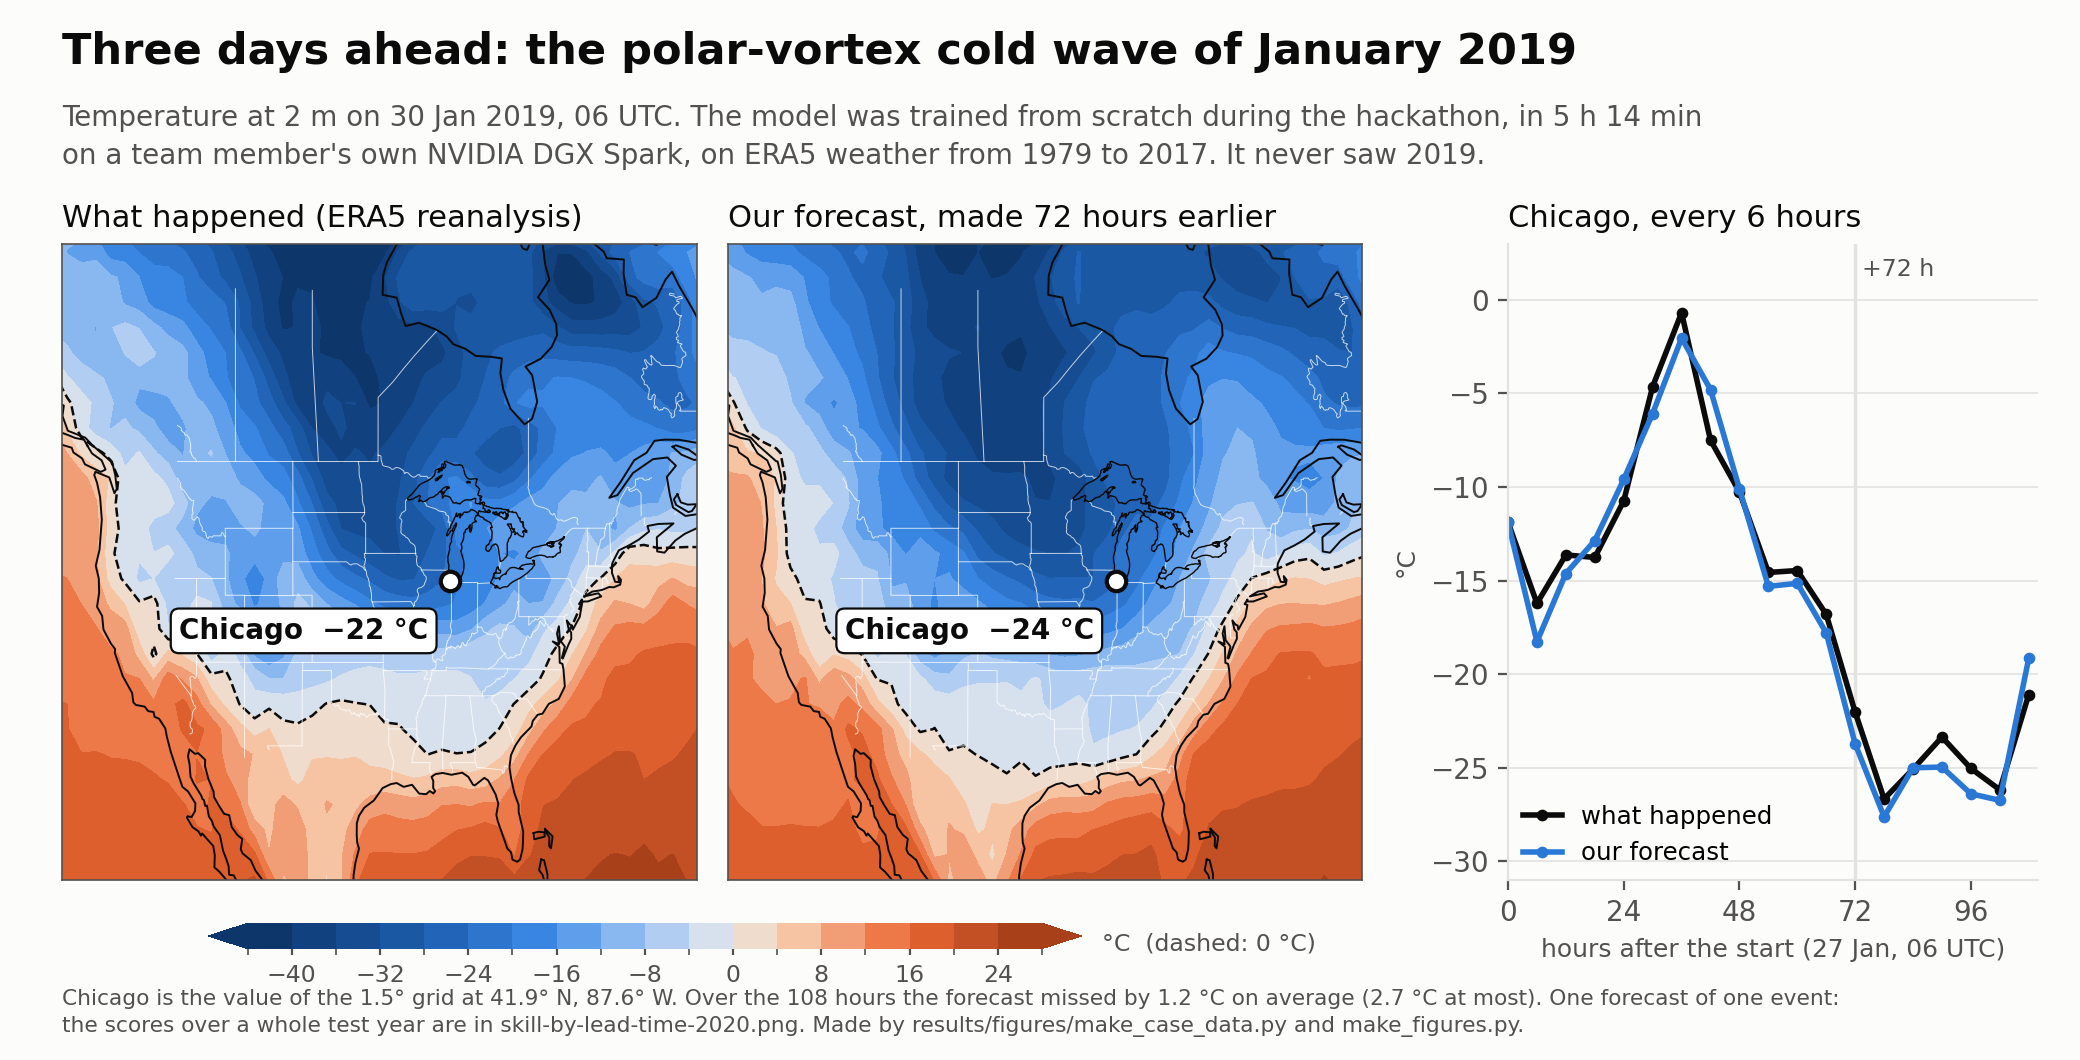
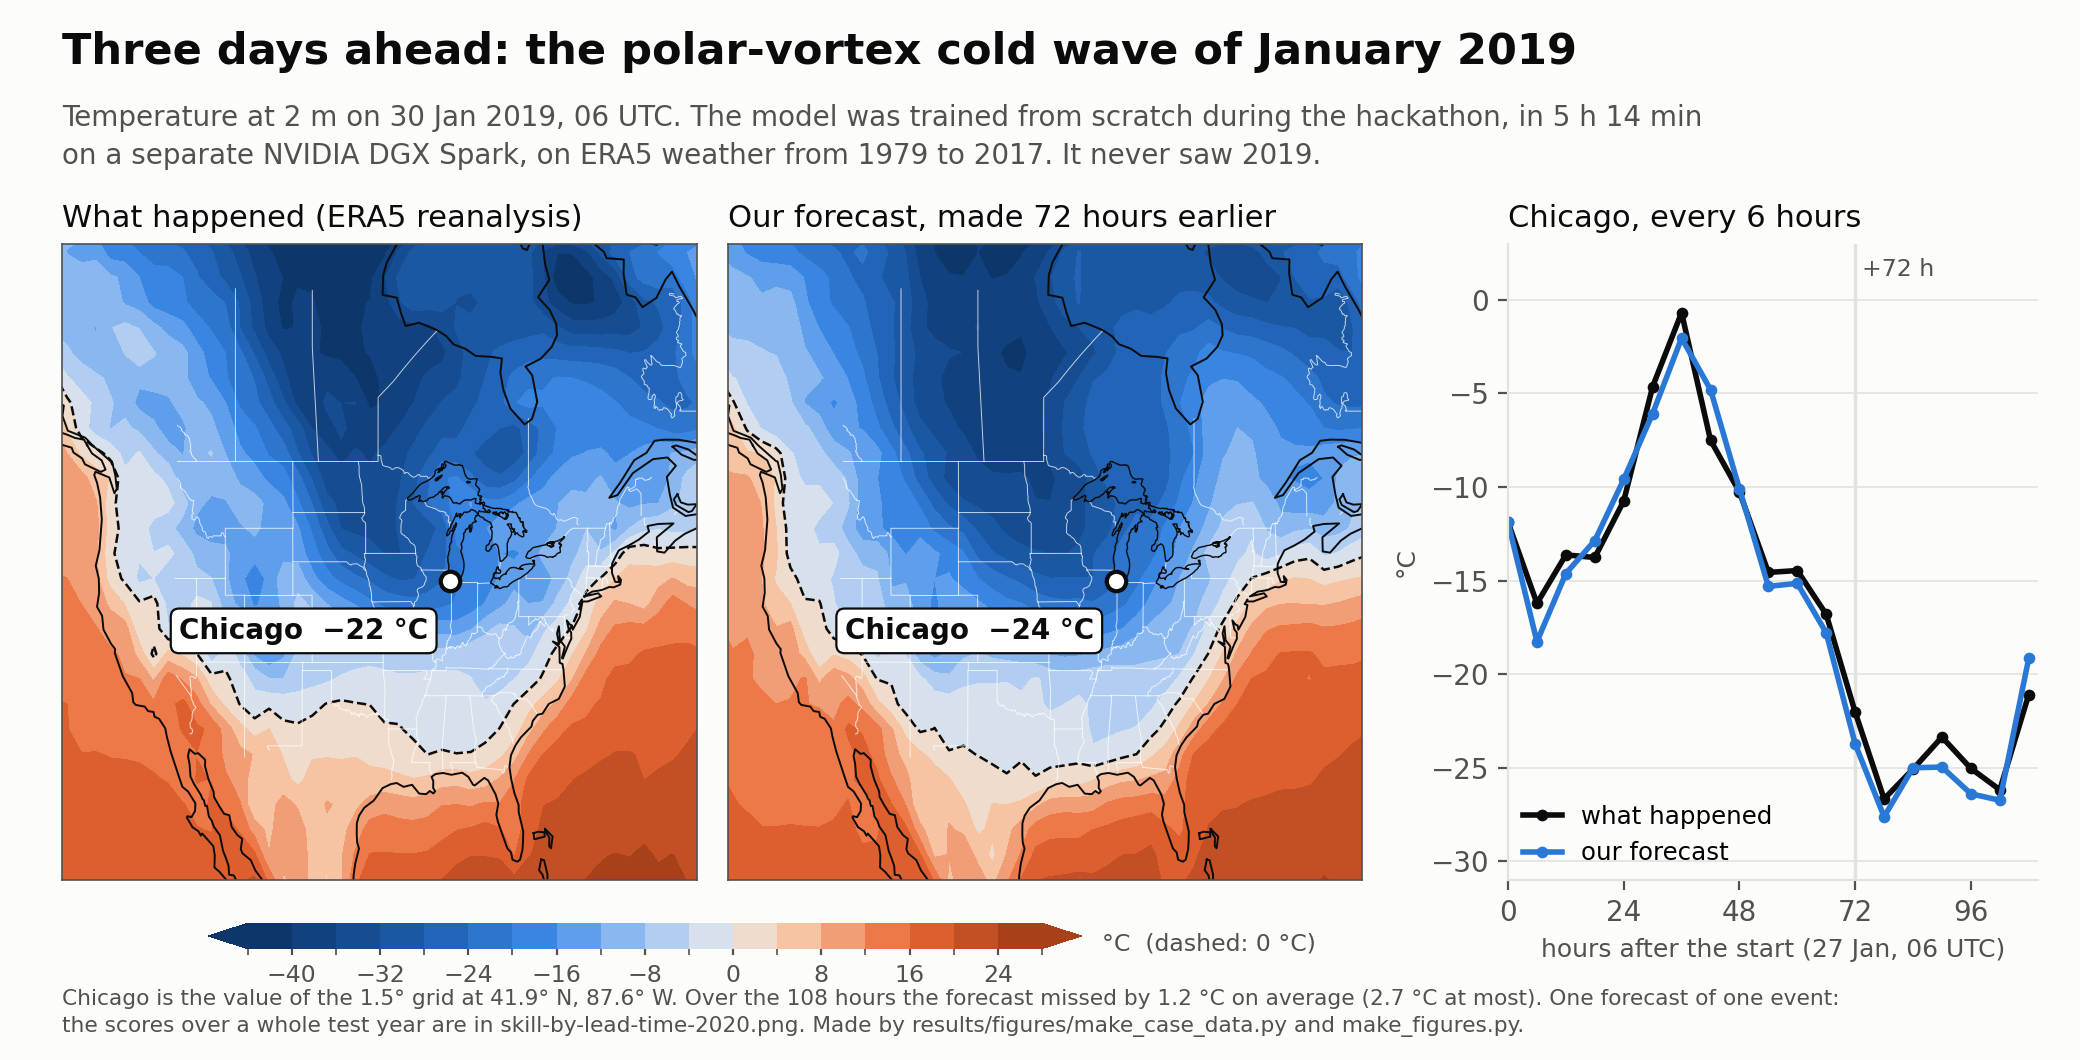
Wording: 'a separate DGX Spark' where the pages said whose machine it is
The pages, two figures and two code comments no longer say whose DGX Spark the base model was
trained and the night checks were run on. They still say that it is a separate machine and not
one of the event's two boxes. Text, two redrawn figures and two comments; no code changes.

Changed region(s): [[0.0625, 0.1245, 0.7188, 0.1557]]

diff --git a/results/figures/make_figures.py b/results/figures/make_figures.py
@@ -67,7 +67,7 @@ def cold_wave(compact=False):
     if not compact:
       fig.text(0.03, 0.94, "Three days ahead: the polar-vortex cold wave of January 2019", fontsize=15.5, fontweight="bold", color=INK)
       fig.text(0.03, 0.845, "Temperature at 2 m on 30 Jan 2019, 06 UTC. The model was trained from scratch during the hackathon, in 5 h 14 min\n"
-               "on a team member's own NVIDIA DGX Spark, on ERA5 weather from 1979 to 2017. It never saw 2019.", fontsize=10, color=INK2, linespacing=1.45)
+               "on a separate NVIDIA DGX Spark, on ERA5 weather from 1979 to 2017. It never saw 2019.", fontsize=10, color=INK2, linespacing=1.45)
     axes = [fig.add_axes([0.03, y0, 0.305, h]), fig.add_axes([0.35, y0, 0.305, h])]
     for ax, field, title in ((axes[0], truth, "30 Jan 2019, as it happened (ERA5)" if compact else "What happened (ERA5 reanalysis)"), (axes[1], fcst, "Our forecast, made 72 hours earlier")):
         sub = field[:, order][np.ix_(ii, jj)]
@@ -125,7 +125,7 @@ def skill():
     fig.text(0.03, 0.93, "Forecast error by lead time, on a year the model never saw", fontsize=15.5, fontweight="bold", color=INK)
     fig.text(0.03, 0.765, f"2020: {y['n_starts']} forecasts, started at 00 and 12 UTC every second day, scored against ERA5 over the whole globe\n"
              "(root-mean-square error, weighted by area). Lower is better. The model was trained and scored on one GB10,\n"
-             "a team member's own NVIDIA DGX Spark. One training run.", fontsize=10, color=INK2, linespacing=1.45)
+             "a separate NVIDIA DGX Spark. One training run.", fontsize=10, color=INK2, linespacing=1.45)
     names = {"z500": ("Pressure pattern (500 hPa)", "m²/s²"), "t850": ("Temperature aloft (850 hPa)", "K"), "t2m": ("Temperature at 2 m", "K")}
     for ax, v in zip(axes, ("z500", "t850", "t2m")):
         r = y["rmse"]

diff --git a/weather/make_bundle.py b/weather/make_bundle.py
@@ -33,7 +33,7 @@ README = """# The forecast server's bundle
 Made by `weather/make_bundle.py` on {made}.
 
 - `weights/afno_event.pt`: NVIDIA PhysicsNeMo's AFNO (19,128,832 parameters), trained from scratch during the
-  hackathon, overnight on Nov 13-14, 2026, on a team member's own NVIDIA DGX Spark (one GB10; not one of the
+  hackathon, overnight on Nov 13-14, 2026, on a separate NVIDIA DGX Spark (one GB10; not one of the
   event's boxes), with `weather/train.py`
   (18,828 one-step steps, then 1,564 four-step rollout steps). Training data: ERA5 reanalysis, 1979-2017, at
   1.5 degrees, 20 channels, every 6 hours.

diff --git a/README.md b/README.md
@@ -46,7 +46,7 @@ cold at 850 hPa (about 1.5 km up), this one 97.8%. "Chicago" is a value of the m
 | One 20-member, 5-day forecast split evenly across both boxes | **2.0 to 2.2 s** against 4.2 s on one box | event boxes |
 | One 48-hour forecast through the router | about **80 ms** | event boxes |
 | The LLM (NVIDIA Nemotron 3.5 Lightning, 18.7 GB on the GPU) beside the weather model on one GPU | 55 to 56 tokens a second; a tool call in 2.2 to 2.3 s (no fine-tune running) | event boxes |
-| A global weather model trained from scratch (NVIDIA PhysicsNeMo AFNO, 19.1M parameters) | **5 h 14 min** on one GB10, from the start to the scored model | a team member's own DGX Spark |
+| A global weather model trained from scratch (NVIDIA PhysicsNeMo AFNO, 19.1M parameters) | **5 h 14 min** on one GB10, from the start to the scored model | a separate DGX Spark |
 | Its 3-day forecast error on 362 forecasts of 2020, a year it never saw | **302** against 956 for "same as now" and 825 for the long-term average (the 500 hPa pressure pattern, the standard score for global weather models; lower is better) | same |
 
 "Event boxes" are the event's two NVIDIA GB10 machines: Lenovo ThinkStation PGX (they report maker
@@ -154,7 +154,7 @@ flowchart TB
 ![The Control Room: number tiles, one card per box with a "real model" badge, the model card, live traffic coloured by box, and the assistant with a forecast card for Chicago](docs/img/control-room.png)
 
 *The Control Room with the real weather model and Nemotron, under light demo traffic (click to enlarge).
-This picture is from a test stack on one GB10, a team member's own DGX Spark, taken on Nov 15: there both
+This picture is from a test stack on one GB10, a separate DGX Spark, taken on Nov 15: there both
 "boxes" share one GPU, which is why both cards say "GPU busy". On the event cluster each box has its own
 GPU. "Two DGX Sparks" in the header is the page's fixed text; `DGX Spark` is the family name the event's
 Lenovo machines report.*
@@ -230,7 +230,7 @@ Three things we learned on Fuzzball 4.3.1 and wrote into that file (more in
 
 | Sponsor | What we used | What it did, with a number | Where to look |
 |---|---|---|---|
-| **NVIDIA** | GB10, one per box | One GPU holds the weather model, an LLM that takes 18.7 GB of GPU memory, and a fine-tune at once. One 48-hour forecast: about 80 ms. The model was trained from scratch in 5 h 14 min on one GB10 (a team member's own DGX Spark) | [results](results/event-boxes-2026-11-14.md), [scores](results/figures/data/scores_overnight.json) |
+| **NVIDIA** | GB10, one per box | One GPU holds the weather model, an LLM that takes 18.7 GB of GPU memory, and a fine-tune at once. One 48-hour forecast: about 80 ms. The model was trained from scratch in 5 h 14 min on one GB10 (a separate DGX Spark) | [results](results/event-boxes-2026-11-14.md), [scores](results/figures/data/scores_overnight.json) |
 | | PhysicsNeMo 2.2.2 (AFNO) in the NGC PyTorch container `nvcr.io/nvidia/pytorch:26.02-py3` | The weather model's architecture (19.1M parameters; the weights are ours) and the runtime of every GPU service, with 16-bit arithmetic on the GPU (bf16) for serving and fine-tuning | [weather/wx_common.py](weather/wx_common.py), [weather/train.py](weather/train.py) |
 | | Nemotron 3.5 Lightning 30B-A3B (4-bit) on llama.cpp's CUDA build for arm64 | The Control Room's assistant, with tool calls. One LLM server runs on each box, with all layers on the GPU, and the chat can reach either one: 55 to 56 tokens a second, a tool call in 2.2 to 2.3 s | [ui/agent.py](ui/agent.py), [fuzzball/fetch_assets.sh](fuzzball/fetch_assets.sh) |
 | **CIQ** | Fuzzball 4.3.1 workflow: jobs and services with `depends-on`, one GPU per box service, a persistent volume, an endpoint, a readiness probe, time limits; Rocky Linux 9 for the hold job and three of the six one-time jobs | Starts, orders and holds the whole system. The benchmarks run inside it with `fuzzball workflow exec`. A queued copy of the stack took both GPUs 23 s after the first one ended | [fuzzball/](fuzzball/README.md) |
@@ -243,7 +243,7 @@ Three things we learned on Fuzzball 4.3.1 and wrote into that file (more in
 **What it is.** AFNO, a neural-network design for global grids from NVIDIA's PhysicsNeMo library, with
 19,128,832 parameters and our own weights: a global grid at 1.5°, 20 variables, 6-hour steps, up to 5 days
 ahead. We trained it from scratch on ERA5 (the European centre's record of past weather) from 1979 to 2017
-with [weather/train.py](weather/train.py), overnight on Nov 13–14, on one GB10 (a team member's own DGX
+with [weather/train.py](weather/train.py), overnight on Nov 13–14, on one GB10 (a separate DGX
 Spark). It forecasts temperature, wind, pressure and geopotential. It has no rain or cloud output. The weights (77 MB) and their
 scores are a [public release](https://github.com/CoryGardner/wxrouter/releases/tag/model-v1).
 
@@ -312,7 +312,7 @@ of three we tried, chosen on the validation period; each trial also printed its 
 alone on the DGX Spark that morning gave the same 1-day gains (−11.1%, −18.4%, −16.9%). For the question
 "will the 2 m temperature be 5 °C or more away from now, one day ahead?", F1 rose from 57.0% to 65.0%;
 for "frost or not" the tuned model was no better (F1 96.3% to 96.2% at 1 day, 94.9% to 94.4% at 3 days).
-These yes/no scores were computed on the team member's DGX Spark from the weights tuned on the event box
+These yes/no scores were computed on the separate DGX Spark from the weights tuned on the event box
 ([results/event-scores-2026-11-14](results/event-scores-2026-11-14/README.md)).
 The tuned model was live for the swap test; the stack then went back to the base model. Full report:
 [results/event-boxes-2026-11-14/finetune_report.md](results/event-boxes-2026-11-14/finetune_report.md).
@@ -367,14 +367,14 @@ killed server processes. Every event-box number is from one run.
   The public components under "Credits" were brought as they are.
 - **Built at the event.** The code in this repository (first commit authored Nov 13, 11:33 PM); the weather
   model's code was written after kickoff, from that recipe. The model that the boxes serve was trained
-  from scratch overnight on Nov 13–14 with `weather/train.py`, in 5 h 14 min, on that team member's own
+  from scratch overnight on Nov 13–14 with `weather/train.py`, in 5 h 14 min, on a separate
   DGX Spark (one GB10, not one of the event's boxes).
 - **Run on the event boxes.** Serving, routing, the fine-tune on NOAA analyses, the model swap and every
   measurement in [results/event-boxes-2026-11-14.md](results/event-boxes-2026-11-14.md). The from-scratch
   training was not run there.
 - **Checked on one GB10 first, then on the event boxes.** The assistant's direct path to the weather
   model, the demo traffic's limit, and the last fixes to the page were tested with the real model and the
-  real LLM on the team member's DGX Spark on the night of Nov 14
+  real LLM on the separate DGX Spark on the night of Nov 14
   ([results/chat-follow-ups-2026-11-14](results/chat-follow-ups-2026-11-14/README.md),
   [results/one-gb10-2026-11-14-night](results/one-gb10-2026-11-14-night/README.md)), with their known
   limits listed there. On Sunday morning, Nov 15, the same code started on the event boxes and passed a
@@ -397,7 +397,7 @@ router.
 | [deploy/](deploy/README.md) | `fb.py`, the launcher around the Fuzzball CLI; the generated workflow files of the inference engine | `fb.py` starts the stack that ran on the event boxes; the generated workflows ran on the event machines |
 | [router.py](router.py) | The router: one address, five rules, failover | deployed |
 | [serve/](serve/) | The forecast server for one box and the supervisor that shares the box's GPU | deployed |
-| [weather/](weather/) | The weather model's code: trainer, scorer, fine-tune, NOAA download | the forecast core, the fine-tune and the NOAA download are deployed; the trainer and the scorer ran on a team member's GB10 |
+| [weather/](weather/) | The weather model's code: trainer, scorer, fine-tune, NOAA download | the forecast core, the fine-tune and the NOAA download are deployed; the trainer and the scorer ran on a separate DGX Spark |
 | [ui/](ui/README.md) | The Control Room: the page, its assistant, the events feed, the demo traffic | deployed |
 | [router/](router/) | The second router: LLM chat to either box, one forecast split across both | deployed |
 | [whatif/](whatif/), [data/](data/) | WhatIf: the telemetry recorder and the diagnosis agents; `data/splits.json` is its list of recorded test cases | deployed with the page |

diff --git a/results/event-boxes-2026-11-14.md b/results/event-boxes-2026-11-14.md
@@ -32,7 +32,7 @@ Requests sent one at a time from inside box-a's service (`urllib`, same point, 6
 | through the router | 84 ms / 66 ms | 4.18 s / 3.80 s |
 
 Medians of 8 and of 3 requests. "GPU" is the server's own `timing.compute_ms`. The servers report 9.4 and
-9.7 ms per member-step. On a team member's own GB10 the same server measured 62 ms, 3.9 s and 9.6 ms on
+9.7 ms per member-step. On a separate GB10 the same server measured 62 ms, 3.9 s and 9.6 ms on
 Nov 14 in the morning: the event boxes match it.
 
 ## 3. Killing a forecast server under traffic (11:52-11:53)
@@ -137,7 +137,7 @@ each routing rule while the job trains. The LLM (18.7 GB) stayed loaded on both 
   the requests to the other box; its window includes the switch itself.
 - No request failed in any phase.
 - The fine-tune: 300 steps in 690 s of training, 738 s in all (12 min 18 s), with exit code 0. On one GB10
-  by itself (a team member's own DGX Spark, that morning at 7:18 AM), the same job took 530 s of training and
+  by itself (a separate DGX Spark, that morning at 7:18 AM), the same job took 530 s of training and
   564 s in all. So beside serving, and with the LLM on the same GPU, it took about 30% longer.
 - The script also counts training steps per phase (0.24 steps a second under static, 0.38 to 0.51 under the
   other rules, 0.44 with no traffic). These are rough: a 45-second window holds about 20 steps, and the
@@ -301,7 +301,7 @@ requests were waiting: 9.2 to 9.6 ms before the fine-tune, 19 to 20 ms beside it
 from 82 s to 127 s, and 9 to 10 ms after that. The fine-tune's process had ended at 93.6 s. With the same
 events and half of the traffic (the other four rules) no such spell is seen on box A.
 
-**The replay on one GB10** (a team member's own DGX Spark, Nov 14 at 10:38 PM; the stack of
+**The replay on one GB10** (a separate DGX Spark, Nov 14 at 10:38 PM; the stack of
 `results/one-gb10-2026-11-14-night/`, both forecast servers and the LLM on its one GPU): the same script,
 trace and fine-tune under static, without the kill. p50 259 ms, p95 2,301 ms, slowest 3,095 ms, 0 failed. One
 model step took 8 ms alone and 18 ms beside the fine-tune, and was back at 8 ms in the slice after the stop;

diff --git a/docs/DETAILS.md b/docs/DETAILS.md
@@ -308,7 +308,7 @@ What a caller should know about the real server:
   a fine-tune ran on the same GPU. Start `router.py` with a `--timeout` above its default of 5 s for those.
 - `/stats` reports `mode: training` when something else is using the box's GPU.
 
-Measured on one GB10 (a team member's own DGX Spark, Nov 13-14, 2026). The same server and the same fine-tune
+Measured on one GB10 (a separate DGX Spark, Nov 13-14, 2026). The same server and the same fine-tune
 on the two event boxes: [results/event-boxes-2026-11-14.md](../results/event-boxes-2026-11-14.md).
 
 | what | result |
@@ -341,11 +341,11 @@ python -m unittest tests.test_forecast_core tests.test_score tests.test_gfs_live
   in. The public components under "Credits" were brought as they are.
 - **Built at the event.** The code in this repository (first commit authored Nov 13, 11:33 PM); the weather model's
   code was written after kickoff, from that recipe. The model that the boxes serve was trained from scratch
-  overnight on Nov 13-14 with `weather/train.py`, in 5 h 14 min, on that team member's own DGX Spark (one
+  overnight on Nov 13-14 with `weather/train.py`, in 5 h 14 min, on a separate DGX Spark (one
   GB10, not one of the event's boxes).
 - **Run on the event boxes.** Serving, routing, the fine-tune on NOAA analyses, the model swap and every
   measurement in [results/event-boxes-2026-11-14.md](../results/event-boxes-2026-11-14.md). The from-scratch
-  training was not run there. Results from the team member's own GB10 are marked as such wherever they appear.
+  training was not run there. Results from the separate GB10 are marked as such wherever they appear.
 
 ## Credits
 

diff --git a/results/chat-follow-ups-2026-11-14/README.md b/results/chat-follow-ups-2026-11-14/README.md
@@ -37,7 +37,7 @@ checked. The limits that were seen are listed under "Known limits" below.
 | one GB10, 9:45 to 10:25 PM | the fix | 9 of 9, five runs | 8 of 8, five runs |
 | one GB10, 11:50 PM to 1:15 AM | the fix, through the three reads below | 9 of 9 in seven runs, 8 of 9 in one | 8 of 8, eight runs |
 
-- "One GB10" is one NVIDIA GB10 (a team member's own DGX Spark) with the real weather model, the same
+- "One GB10" is one NVIDIA GB10 (a separate DGX Spark) with the real weather model, the same
   starting analysis and the same LLM (Nemotron on llama.cpp) as the event boxes; the stack was started as
   `fuzzball/30-real-stack.fz` starts it. The event boxes were out of reach that evening.
 - With `main`, every follow-up answer held numbers that the model had not given. Example from the event

diff --git a/results/README.md b/results/README.md
@@ -6,7 +6,7 @@ Everything here was measured on Nov 14, 2026, unless a row gives another date. F
   CIQ-CHI-SPARK28) with the real weather model, the LLM and the router.
 - **Event machines, stand-in model**: the same machines with `wx-tiny-untrained-0.1`, a small model with
   random weights. It makes the GPU work. Its output is not a forecast.
-- **One GB10**: a team member's own DGX Spark. It has one GPU, so both "boxes" share it.
+- **One GB10**: a separate DGX Spark. It has one GPU, so both "boxes" share it.
 - **Laptop, mock boxes**: no GPU. The boxes are [mock_server.py](../mock_server.py), with made-up timings.
 
 ## Start here

diff --git a/results/one-gb10-2026-11-14-night/README.md b/results/one-gb10-2026-11-14-night/README.md
@@ -1,6 +1,6 @@
 # Two questions from the team, checked on one GB10 (Nov 14, 2026, 9 PM)
 
-The event boxes were out of reach that evening. These checks ran on one NVIDIA GB10 (a team member's own
+The event boxes were out of reach that evening. These checks ran on one NVIDIA GB10 (a separate
 DGX Spark) with the code of `main` (commit `23fc90d`), started the way `fuzzball/30-real-stack.fz` starts
 it: two supervisors, two real forecast servers (weights `65f9f3bb3270`, the NOAA analysis of Nov 14,
 18 UTC), `router.py`, the second router, the page, and NVIDIA Nemotron on llama.cpp. Both "boxes" share the

diff --git a/results/event-scores-2026-11-14/README.md b/results/event-scores-2026-11-14/README.md
@@ -71,7 +71,7 @@ change, from a paired bootstrap over the 42 start days.
 
 ## How it was run
 
-- `weather/event_scores.py`, on one NVIDIA GB10 (a team member's own DGX Spark), Nov 14, 2026, 9:45 PM; 37 s.
+- `weather/event_scores.py`, on one NVIDIA GB10 (a separate DGX Spark), Nov 14, 2026, 9:45 PM; 37 s.
 - Base weights `afno_event.pt` (SHA-256 `65f9f3bb3270...`). Tuned weights `afno_tuned_641de834.pt`
   (`641de8342da7...`): the fine-tune that ran on an event box on Nov 14 at 2:46 PM.
 - NOAA GFS analyses from Nov 14, 2025 to Nov 14, 2026; the same split as `weather/finetune.py`.
